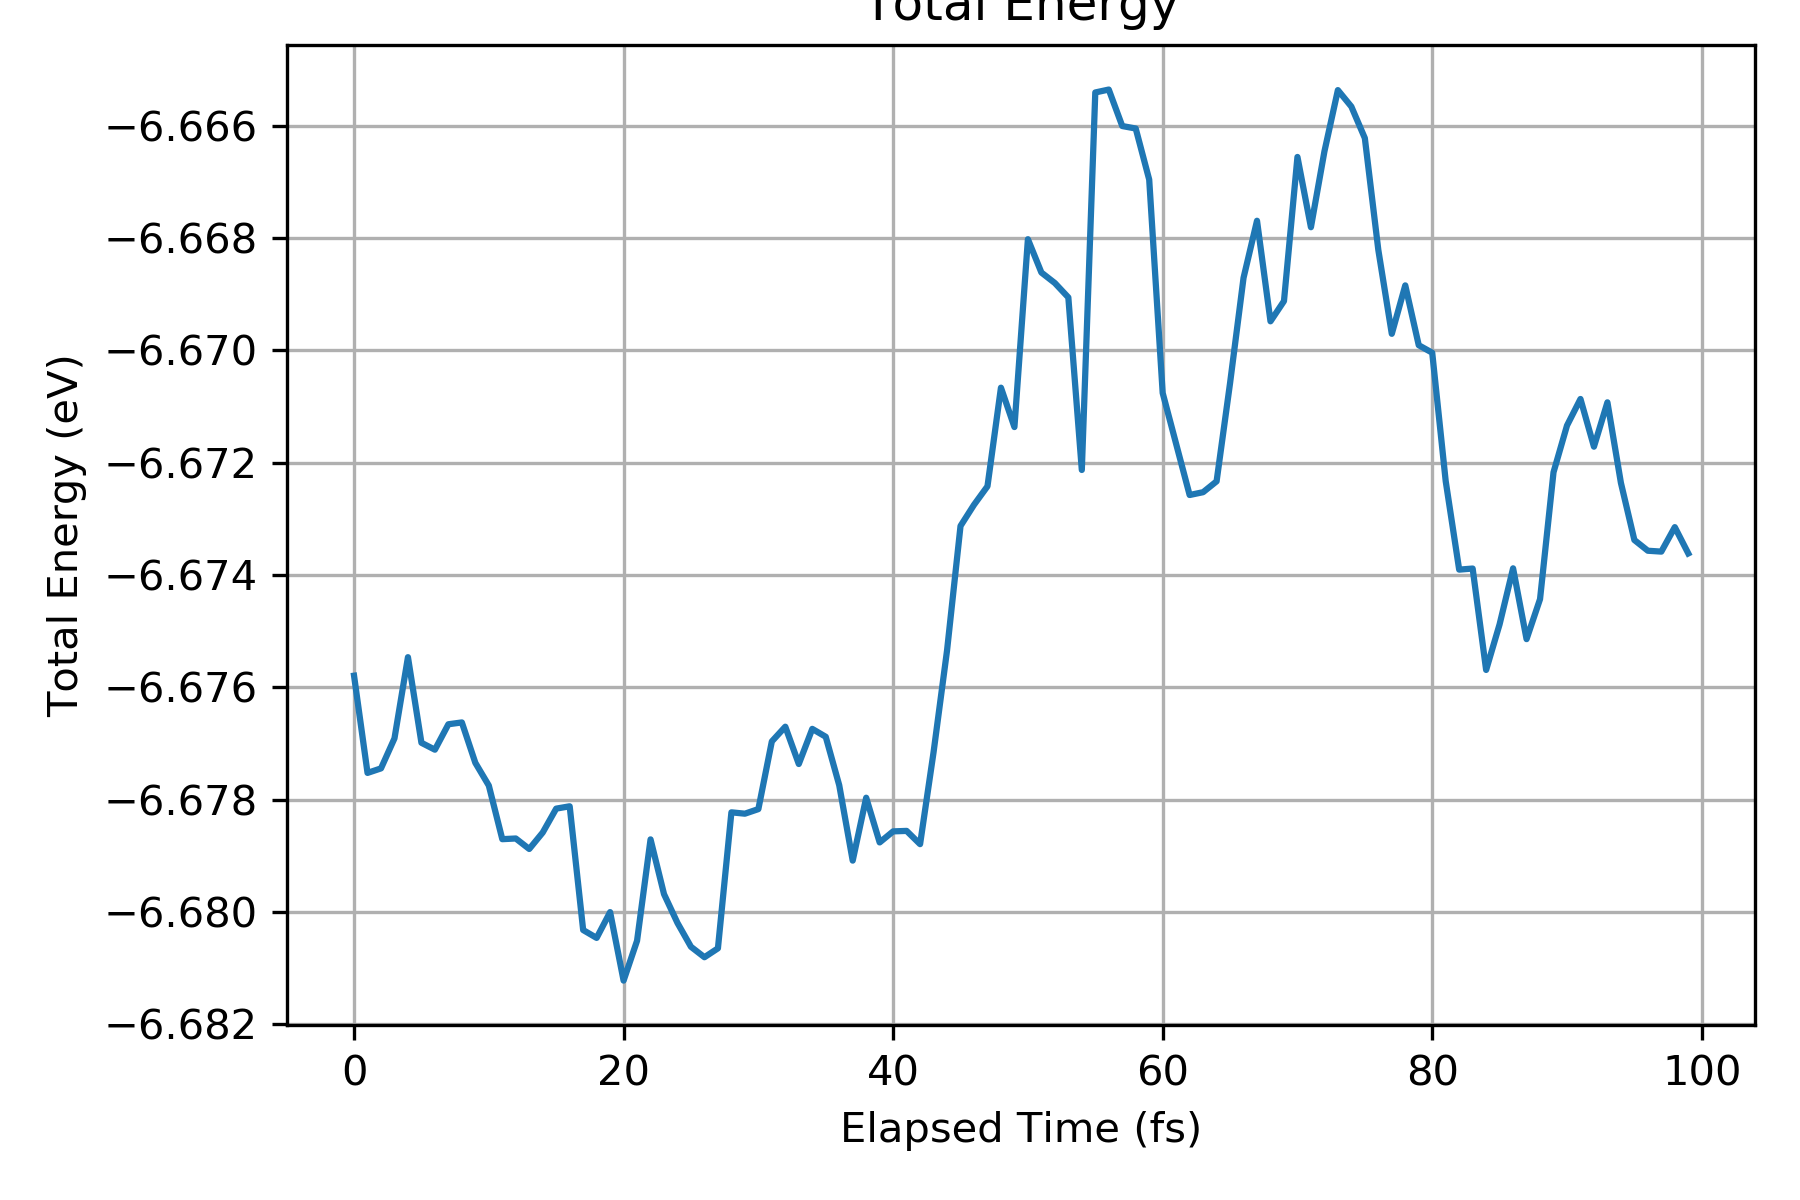
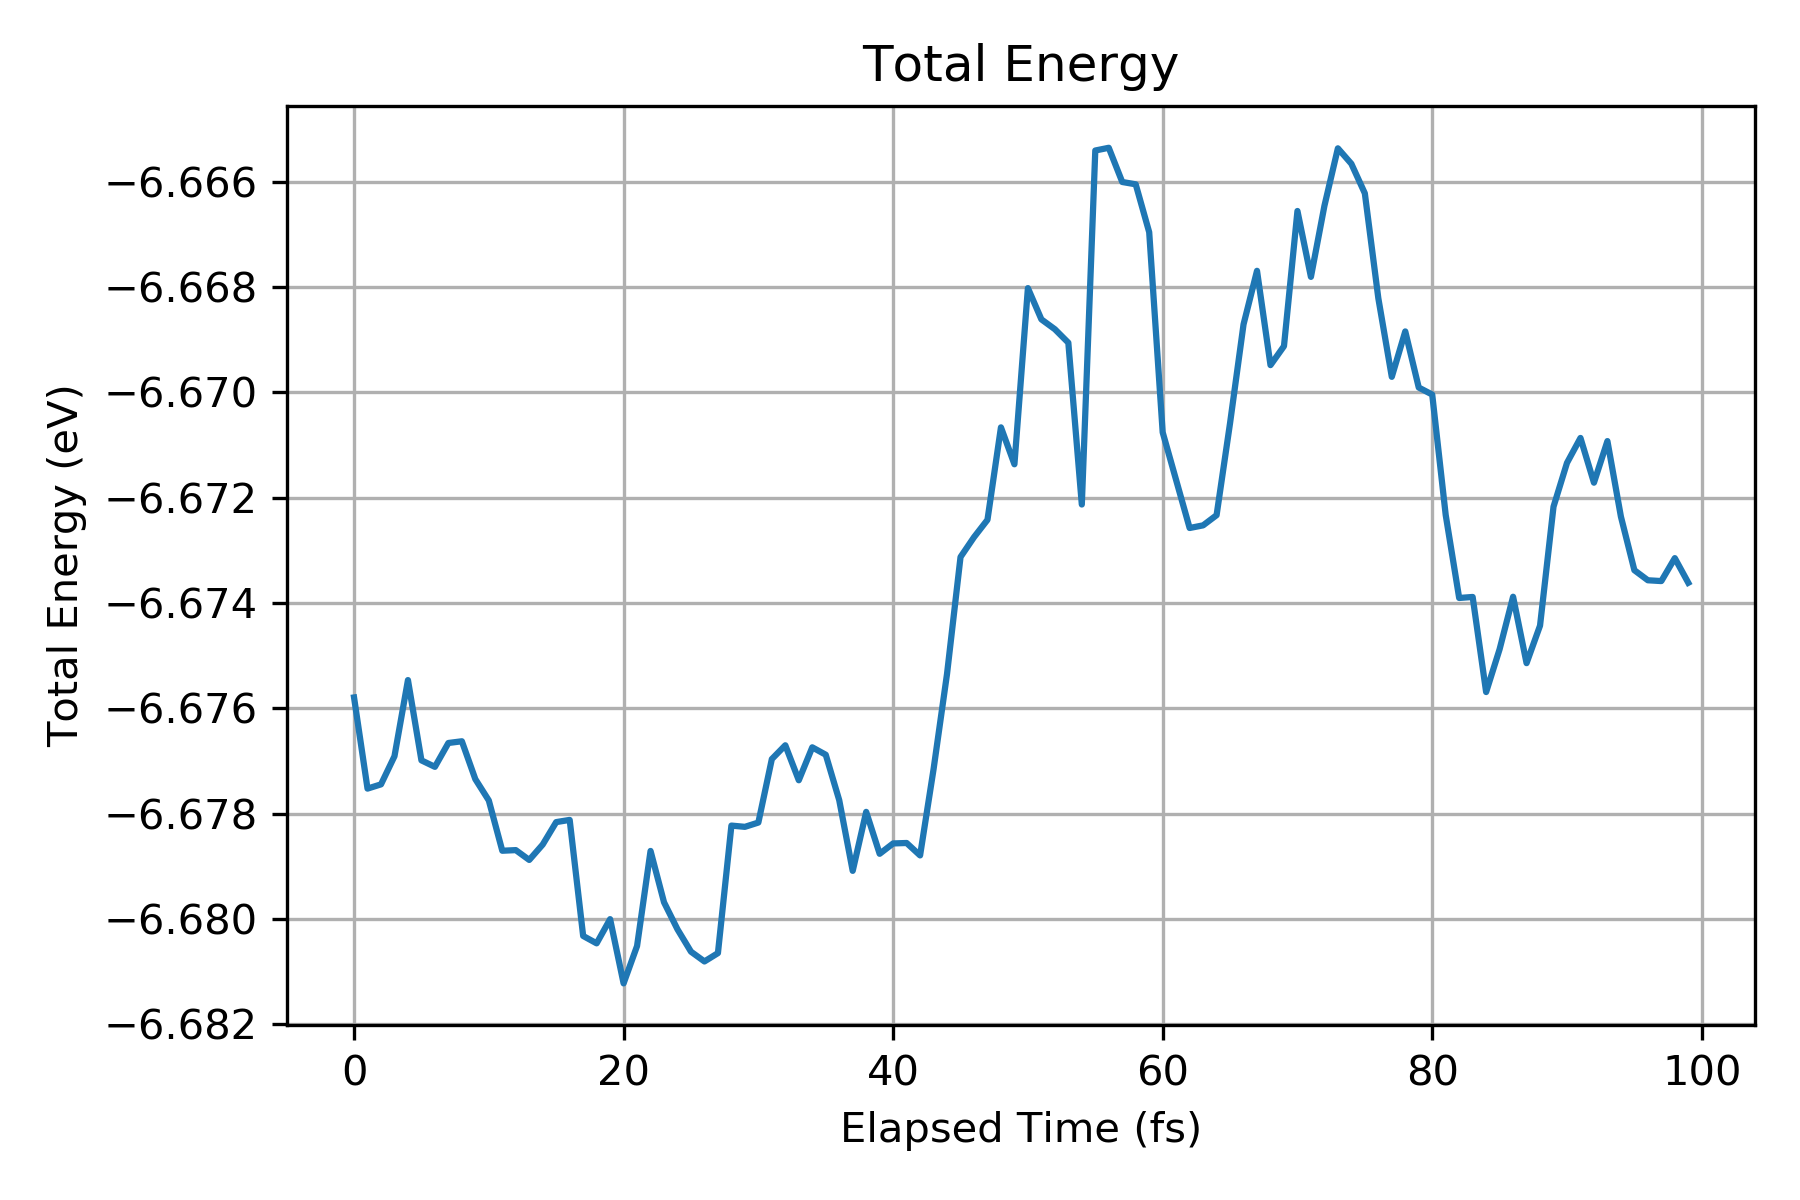
AIMD analysis: revise savefig example, 2nd, test successful

diff --git a/aimd_analysis/examples/example_savefig.py b/aimd_analysis/examples/example_savefig.py
@@ -34,6 +34,8 @@ fig, ax = plot_profile(
 
 ax.set_title("Total Energy")
 
+fig.tight_layout()
+
 fig.savefig(
     str(outfile),
     dpi=300,